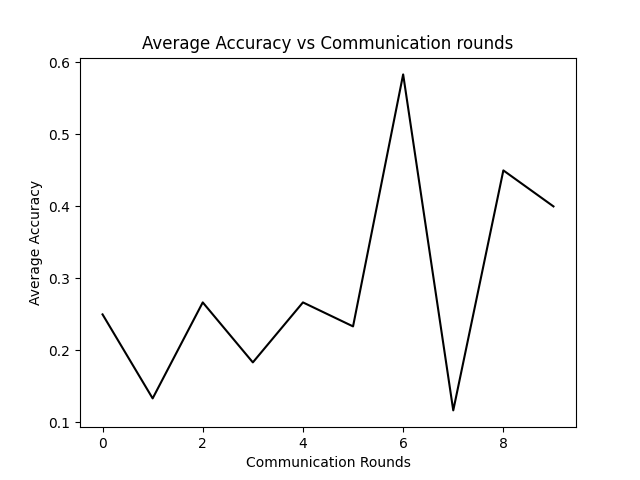
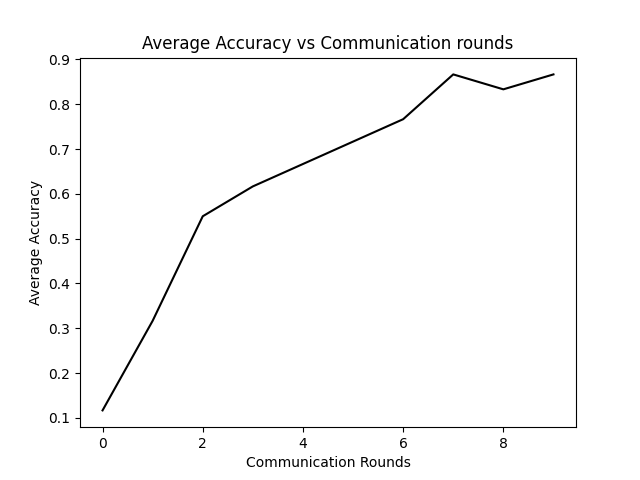
iid graphs

diff --git a/src/federated_main.py b/src/federated_main.py
@@ -23,7 +23,8 @@ from utils import get_dataset, average_weights, exp_details
 
 def get_num_classes_dict(idx):
     if isinstance(train_dataset.targets, torch.Tensor):
-        return Counter(train_dataset.targets[user_groups[idx]].detach().numpy())
+        
+        return Counter(train_dataset.targets[list(user_groups[idx])].detach().numpy())
     else:
         return Counter(torch.tensor(train_dataset.targets)[user_groups[idx]].detach().numpy())
 

diff --git a/src/sampling.py b/src/sampling.py
@@ -14,6 +14,7 @@ def mnist_iid(dataset, num_users):
     :param num_users:
     :return: dict of image index
     """
+    np.random.seed(40)
     num_items = int(len(dataset)/num_users)
     dict_users, all_idxs = {}, [i for i in range(len(dataset))]
     for i in range(num_users):
